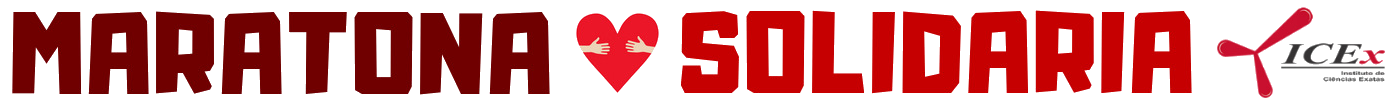
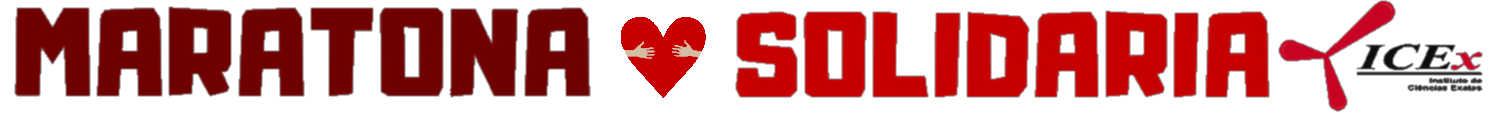
About page initial front design

Changed region(s): [[0.0, 0.0, 1.0, 0.9722]]

diff --git a/maratona-solidaria/src/app/pages/about/about.page.html b/maratona-solidaria/src/app/pages/about/about.page.html
@@ -1,17 +1,69 @@
 <main class="main">
-  <img src="./assets/img/horizontalBanner.png" />
+  <app-header></app-header>
   <div class="columns">
     <section class="column">
-      <h1 class="section-title">O QUE É</h1>
-      <p class="section-text"></p>
+      <section class="section">
+        <h1 class="section-title">O<br />QUE<br />É</h1>
+        <body class="section-text">
+          <p>
+            A Maratona Solidária do ICEx é um projeto para incentivar a prática
+            da solidariedade entre os alunos do ICEx.
+          </p>
+          <p>
+            As equipes são compostas por alunos da graduação e da pós-graduação,
+            divididas pelos cursos do ICEx.
+          </p>
+          <p>
+            A realização da Maratona Solidária do ICEx é uma parcerias dos
+            Diretórios Acadêmicos do ICEx e da Diretoria do ICEx. Tem início no
+            dia 19 de março de 2020 e termina no dia 15 de abril de 2020 às 20h.
+          </p>
+        </body>
+      </section>
+      <section class="section">
+        <body class="section-text">
+          <p>
+            Todos os alunos do ICEx podem participar da Maratona Solidária. O
+            aluno será incluído, automaticamente, na equipe no momento da doação
+            realizada durante o período da Maratona.
+          </p>
+          <p>
+            Docentes, funcionários e comunidade externa também podem realizar
+            doações. Basta escolher um aluno para representar a doação, a
+            pontuação da doação será da equipe a qual o aluno representante
+            participa.
+          </p>
+        </body>
+        <h1 class="section-title">QUEM<br />PODE<br />PARTICIPAR</h1>
+      </section>
+      <section class="section">
+        <h1 class="section-title">CLASSIFICAÇÃO<br />E<br />PREMIAÇÃO</h1>
+        <body class="section-text" style="white-space: pre-line;">
+          <p>
+            A apuração do resultado final de cada equipe será calculada
+            dividindo a pontuação total pela quantidade de membros no momento.
+          </p>
+          <p>
+            A equipe vencedora receberá um troféu da 1ª Maratona Solidária do
+            ICEx.
+          </p>
+        </body>
+      </section>
     </section>
     <section class="column">
-      <h1 class="section-title">QUEM PODE PARTICIPAR</h1>
-      <p class="section-text"></p>
-    </section>
-    <section class="column">
-      <h1 class="section-title">CLASSIFICAÇÃO E PREMIAÇÃO</h1>
-      <p class="section-text"></p>
+      <button class="login-button" type="submit" (click)="navigateToLogin()">
+        Login
+      </button>
+      <div class="table">
+        <div class="table-header">
+          <span class="table-header-item">Produto</span
+          ><span class="table-header-item">Pontuação</span>
+        </div>
+        <li class="item" *ngFor="let product of products">
+          <span class="item-value">{{product.name}}</span
+          ><span class="item-value">{{product.points}}</span>
+        </li>
+      </div>
     </section>
   </div>
 </main>

diff --git a/maratona-solidaria/src/app/shared/models/product.ts b/maratona-solidaria/src/app/shared/models/product.ts
@@ -1,0 +1,108 @@
+const products = [
+  {
+    name: "Ração para cães ou gatos (a cada 5 kg)",
+    points: 100,
+  },
+  {
+    name: "Apostila de concursos, enem e vestibular (bom estado)",
+    points: 60,
+  },
+  {
+    name: "Garrafa pet cheia com lacres",
+    points: 50,
+  },
+  {
+    name: "Medula (cadastro com comprovante)",
+    points: 150,
+  },
+  {
+    name: "Brinquedo (novo)",
+    points: 50,
+  },
+  {
+    name: "Fralda descartáveis geriátrica (a cada 8 unidades )",
+    points: 80,
+  },
+  {
+    name: "Doação de sangue (apresentar comprovante)",
+    points: 150,
+  },
+  {
+    name: "Biscoito (maizena, cream cracker e água e sal)",
+    points: 15,
+  },
+  {
+    name: "Arroz (a cada 1 kg)",
+    points: 10,
+  },
+  {
+    name: "Lata de Óleo (a cada 1L)",
+    points: 20,
+  },
+  {
+    name: "Macarrão (a cada 500g)",
+    points: 10,
+  },
+  {
+    name: "Açúcar (a cada 1 kg)",
+    points: 10,
+  },
+  {
+    name: "Sabonete 6 unidades",
+    points: 10,
+  },
+  {
+    name: "Papel Higiênico 12 unidades (rolos)",
+    points: 20,
+  },
+  {
+    name: "Farinha/fubá (a cada 1kg)",
+    points: 5,
+  },
+  {
+    name: "Feijão (a cada 1kg)",
+    points: 10,
+  },
+  {
+    name: "Sal (a cada 1kg)",
+    points: 5,
+  },
+  {
+    name: "Caderno",
+    points: 30,
+  },
+  {
+    name: "Kit escola (um lápis, uma caneta, uma borracha e um apontador)",
+    points: 20,
+  },
+  {
+    name: "Xampu/condicionador ( a cada 500ml)",
+    points: 10,
+  },
+  {
+    name: "Café (a cada 500g)",
+    points: 10,
+  },
+  {
+    name: "Absorvente (a cada 8 unidades)",
+    points: 10,
+  },
+  {
+    name: "Escova de dente",
+    points: 5,
+  },
+  {
+    name: "Pasta dental",
+    points: 5,
+  },
+  {
+    name: "Fralda infantil",
+    points: 200,
+  },
+  {
+    name: "Livro",
+    points: 40,
+  },
+];
+
+export default products;

diff --git a/maratona-solidaria/src/app/pages/about/about.page.css b/maratona-solidaria/src/app/pages/about/about.page.css
@@ -3,17 +3,76 @@
   flex-direction: column;
   align-items: center;
   width: 100%;
+  position: fixed;
+  top: 0;
+  left: 0;
+  bottom: 0;
+  right: 0;
+  background-color: var(--mildpink);
 }
 .columns {
   display: flex;
   flex-direction: row;
   width: 100%;
+  height: 100%;
 }
 .column {
-  width: 33%;
+  display: flex;
+  flex-direction: column;
+  width: 50%;
+  margin: 18px 18px 88px 0px;
+}
+.section {
+  display: flex;
+  flex-direction: row;
+  align-content: center;
+  margin-left: 108px;
+  flex-grow: 1;
 }
 .section-title {
   text-align: center;
+  width: 25%;
+  font-size: 22px;
+  align-self: center;
+  color: var(--blood);
 }
 .section-text {
+  align-self: center;
+  width: 75%;
+  font-size: 18px;
+}
+.login-button {
+  width: 88px;
+  align-self: flex-end;
+}
+.table {
+  display: flex;
+  flex-direction: column;
+  margin: 8px 58px 0px 28px;
+  padding-left: 0 !important;
+  border: var(--charcoal);
+  border-width: 2px;
+  border-style: solid;
+  border-radius: 8px;
+}
+.table-header {
+  display: flex;
+  justify-content: space-between;
+  background-color: var(--bisque);
+  margin: 0px 0px 2px 0px;
+  border-radius: 8px;
+}
+.table-header-item {
+  font-weight: bold;
+  margin: 2px 10px 2px 10px;
+}
+.item {
+  display: flex;
+  justify-content: space-between;
+  background-color: var(--charcoal);
+  margin: 1px 8px 1px 8px;
+}
+.item-value {
+  color: whitesmoke;
+  margin: 2px 10px 2px 10px;
 }

diff --git a/maratona-solidaria/src/app/pages/about/about.page.ts b/maratona-solidaria/src/app/pages/about/about.page.ts
@@ -1,5 +1,6 @@
 import { Component, OnDestroy, OnInit } from "@angular/core";
 import { ActivatedRoute, Router } from "@angular/router";
+import products from "src/app/shared/models/product";
 
 @Component({
   selector: "app-about",
@@ -9,6 +10,7 @@ import { ActivatedRoute, Router } from "@angular/router";
 export class AboutComponent implements OnInit, OnDestroy {
   public returnUrl = "";
   private sub: any;
+  products = products;
 
   constructor(private router: Router, private route: ActivatedRoute) {
     this.sub = this.route.queryParams.subscribe((params) => {
@@ -24,5 +26,9 @@ export class AboutComponent implements OnInit, OnDestroy {
 
   public ngOnDestroy() {
     this.sub.unsubscribe();
+  }
+
+  public navigateToLogin() {
+    this.router.navigateByUrl("/login");
   }
 }

diff --git a/maratona-solidaria/src/app/pages/pages.module.ts b/maratona-solidaria/src/app/pages/pages.module.ts
@@ -4,9 +4,10 @@ import { LoginComponent } from "./login/login.page";
 import { NgxsFormPluginModule } from "@ngxs/form-plugin";
 import { FormsModule, ReactiveFormsModule } from "@angular/forms";
 import { ComponentsModule } from "../components/components.module";
+import { AboutComponent } from "./about/about.page";
 
 @NgModule({
-  declarations: [LoginComponent],
+  declarations: [LoginComponent, AboutComponent],
   imports: [
     CommonModule,
     NgxsFormPluginModule,

diff --git a/maratona-solidaria/src/app/components/header/header.component.css b/maratona-solidaria/src/app/components/header/header.component.css
@@ -4,10 +4,10 @@
   align-items: center;
   justify-content: space-evenly;
   height: 80px;
-  width: 100%;
+  width: 100vw;
   background-color: var(--charcoal);
 }
 .image {
-  width: 80%;
-  height: auto;
+  width: auto;
+  height: 70px;
 }
